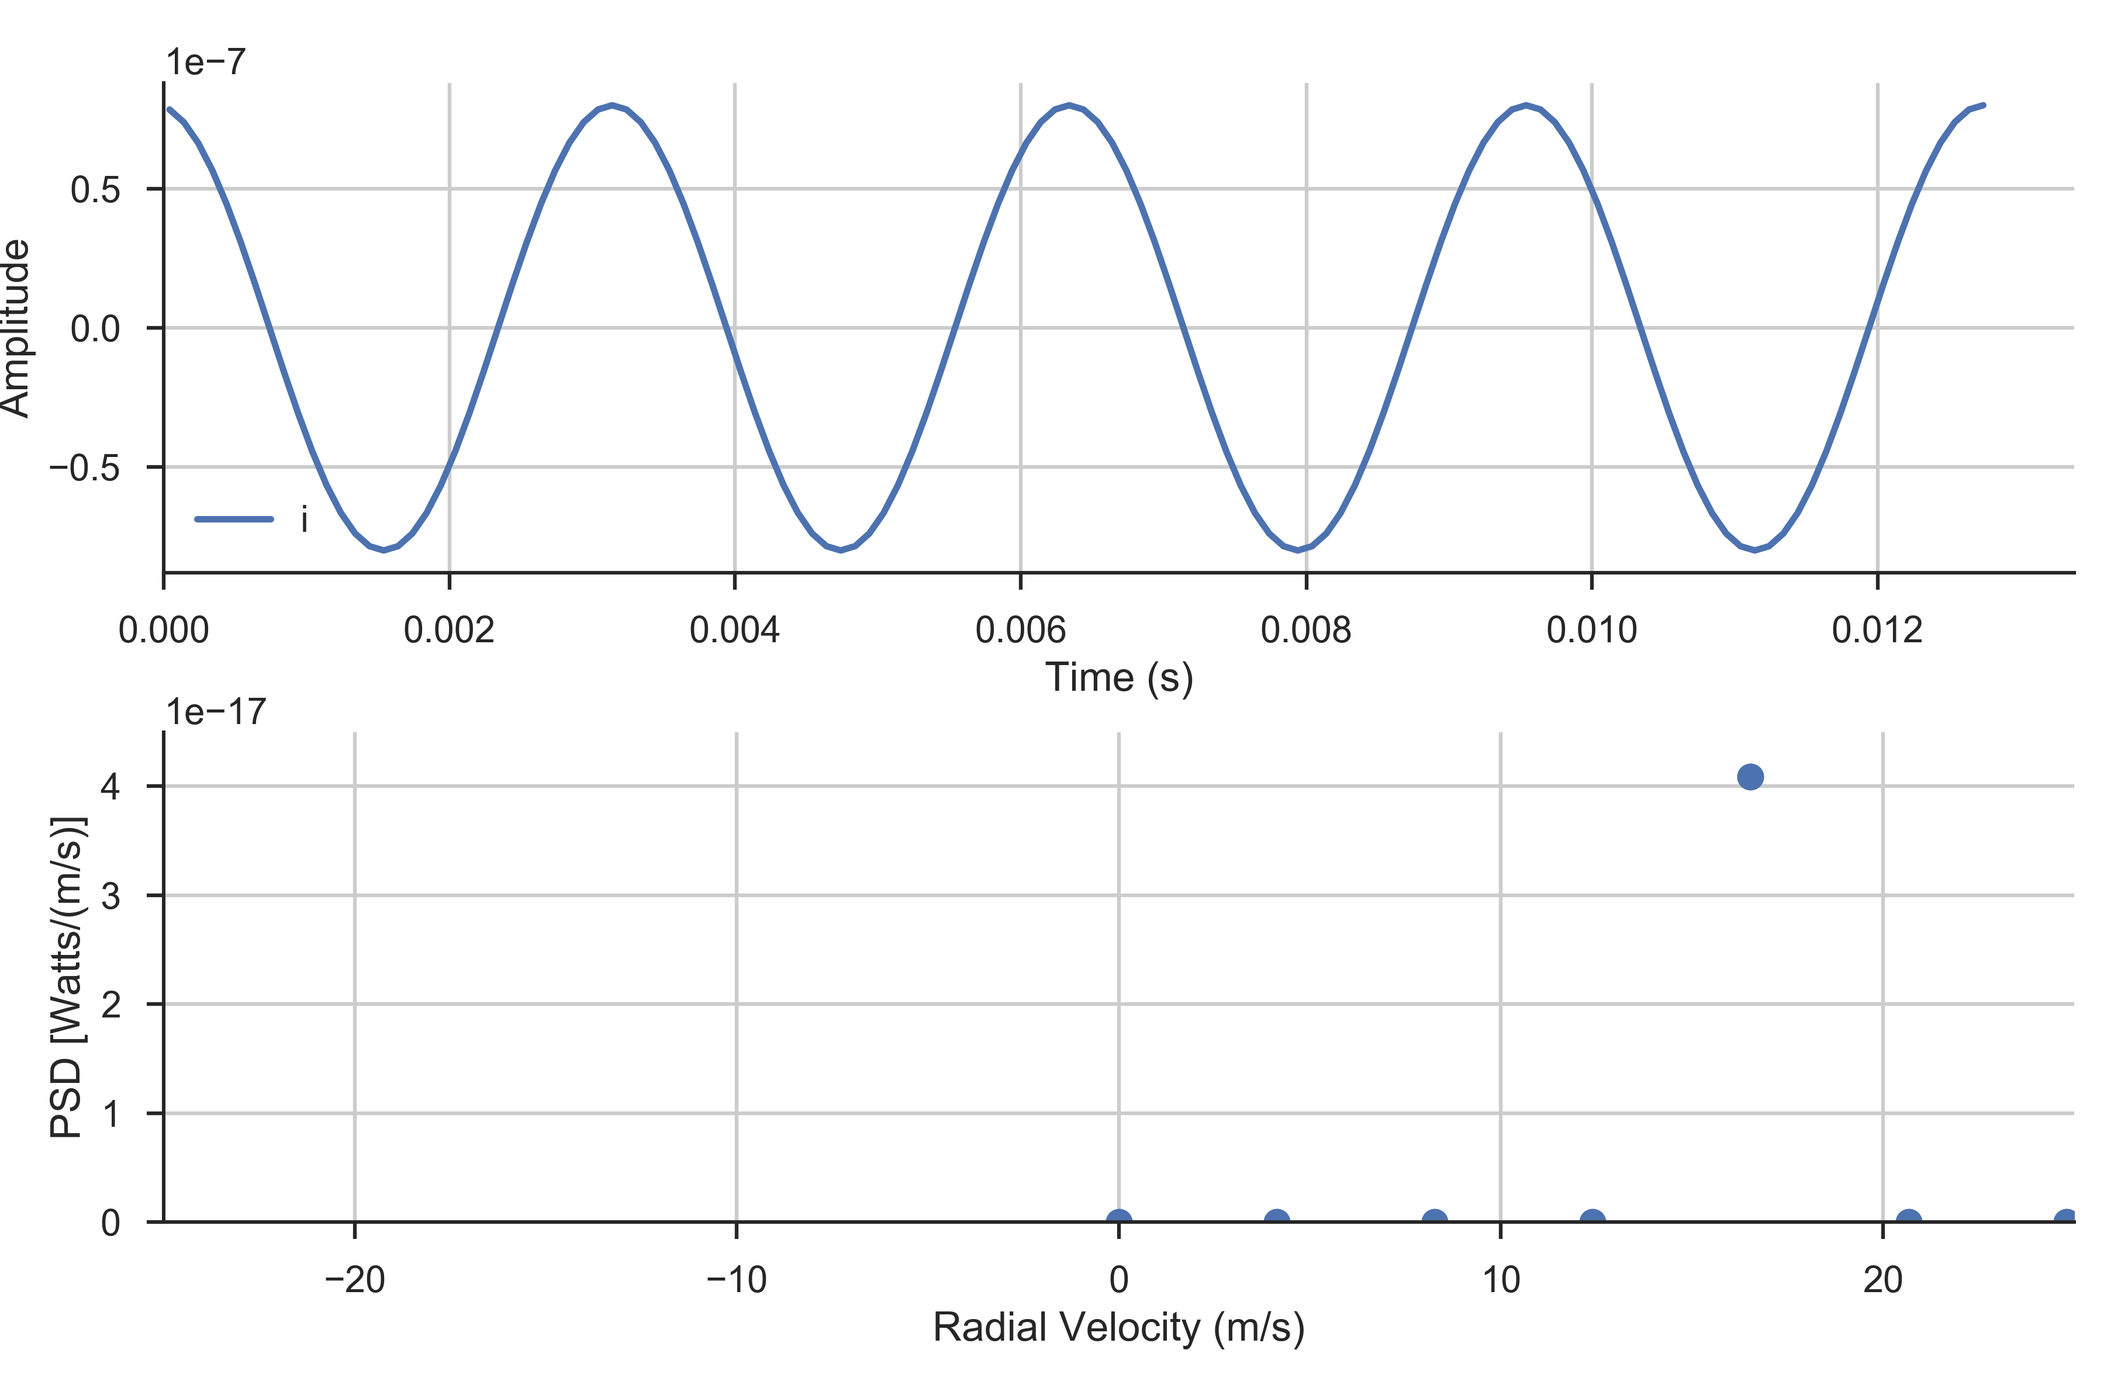
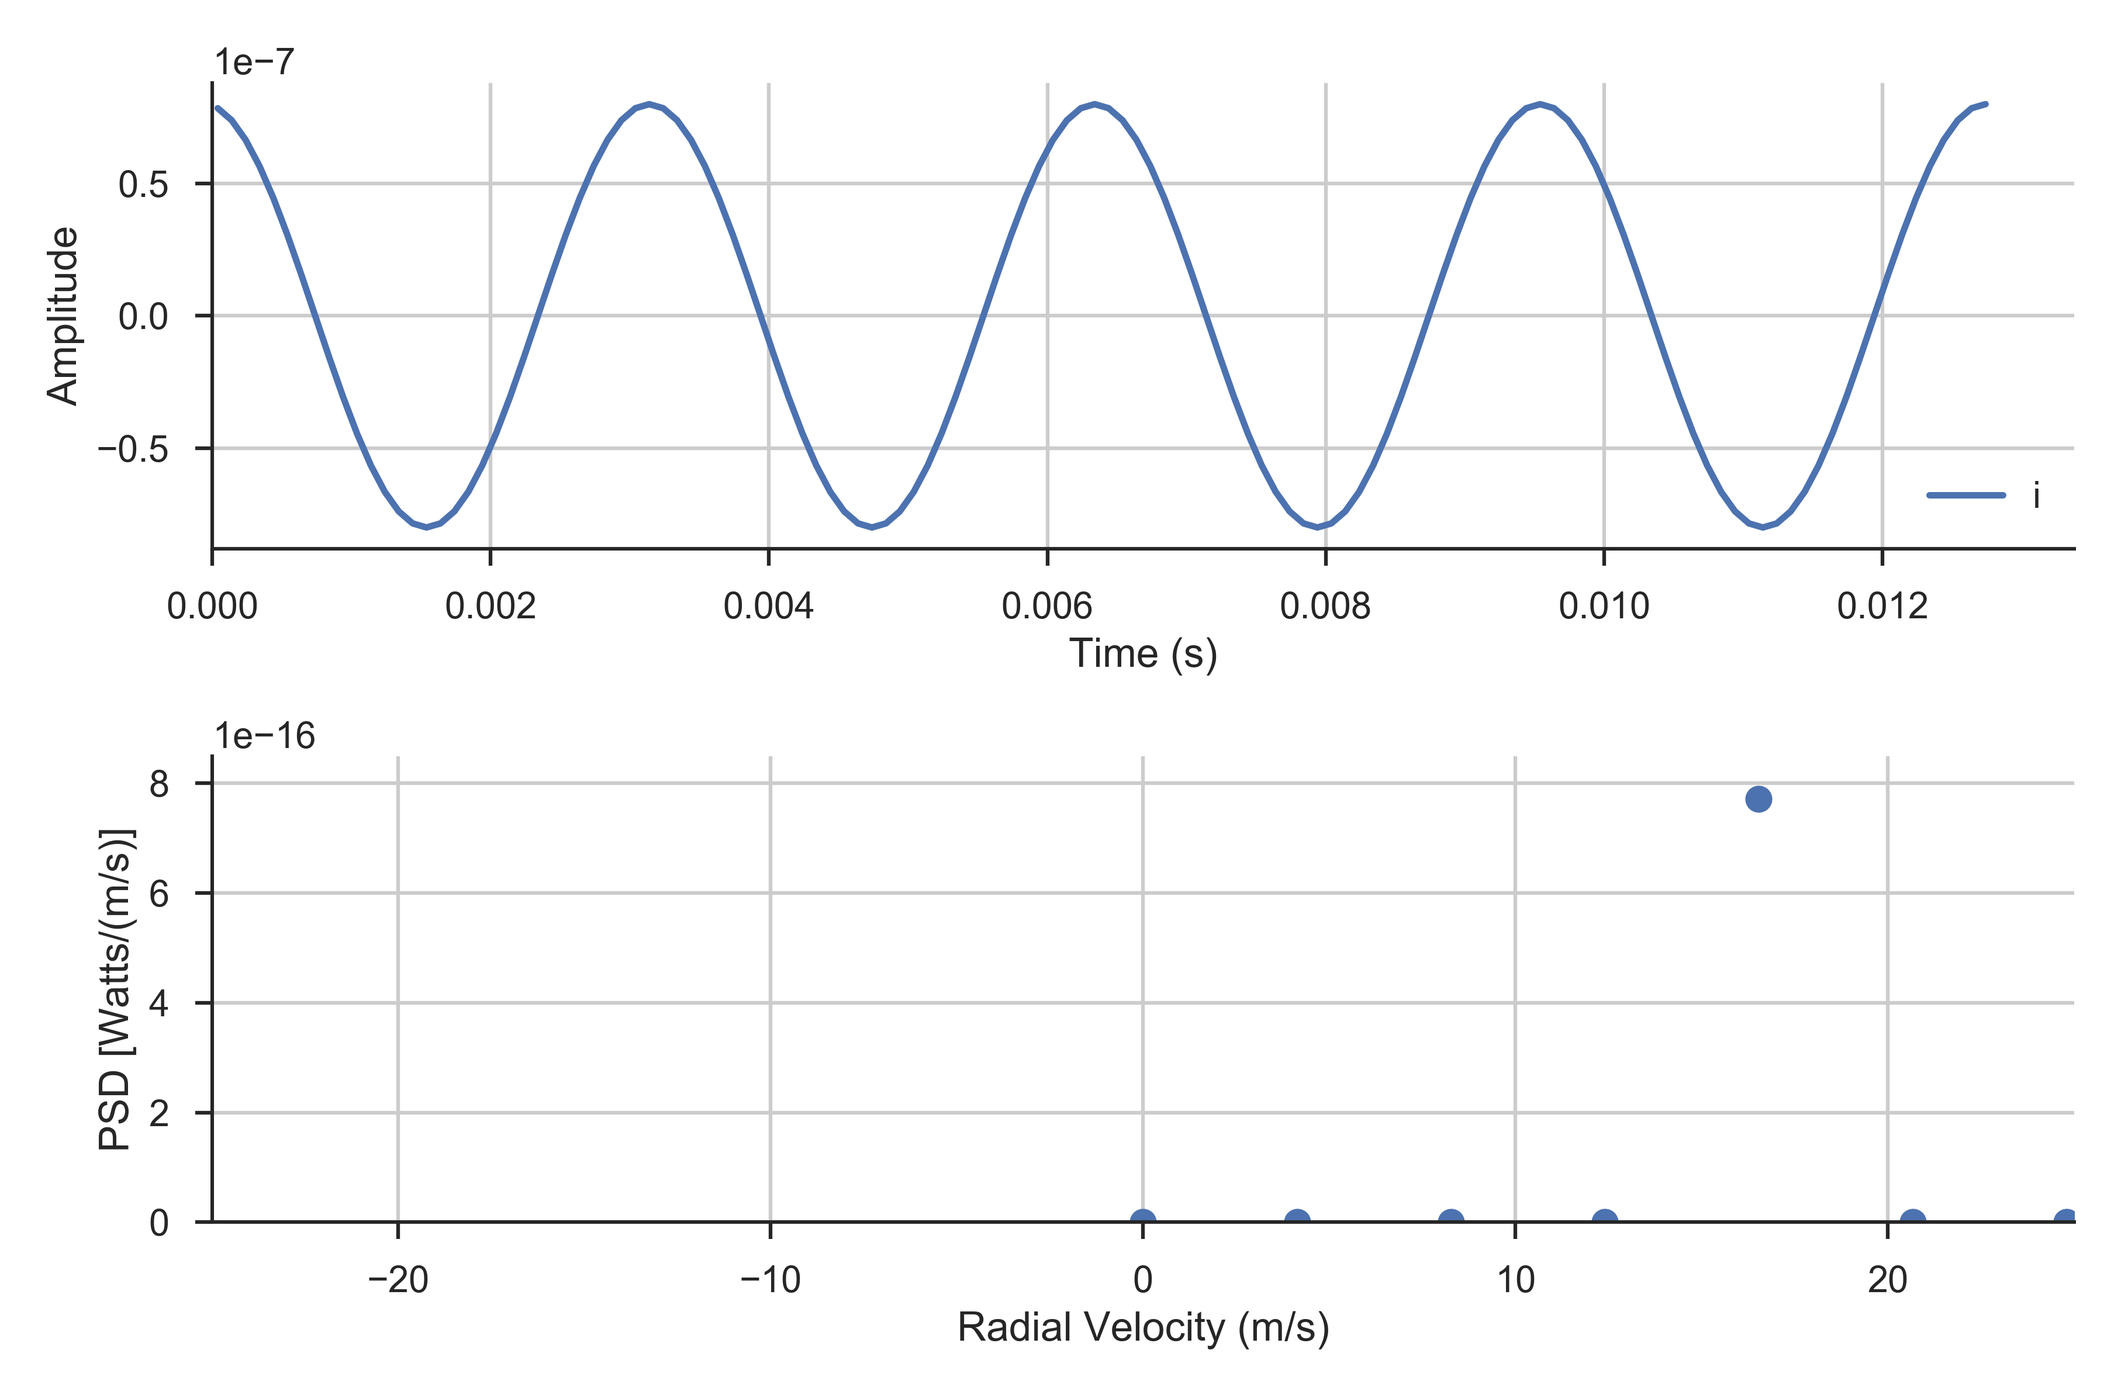
Update sim

diff --git a/main.py b/main.py
@@ -51,37 +51,43 @@ def runSimulation(numIntegrate, attackAngle, noiseOn):
         integrateTimeArr = np.zeros((numIntegrate))
         while cohereTrack < numIntegrate:
             # Update Target position, return time, and return power
-            targetLocation = calculateValues.findPosition(targetLocation, attackAngle).v
+            targetLocation = calculateValues.findPosition(targetLocation, 
+                                                          attackAngle).v
             returnTime = calculateValues.expectedTime(targetLocation).v
             returnPower = calculateValues.findPower(targetLocation).v
             targetRange = np.linalg.norm(targetLocation)
-            
+            print(returnPower)
             if noiseOn == True:
-                returnPower += chiNoise(1, 2e-14, 4)
-    
+                returnPower = chiNoise(1, returnPower, 4)
             # Store transmit, arrival times, and power
             transmitArr[i] = time
             arrivalTimeArr[i] = returnTime
             targetRangeArr[i] = targetRange
             returnPowerArr[i] = linear2db(returnPower) + 30  # dBm
-        
+    
+                
             # Store coherent integration information
             iIntegrate[cohereTrack] = np.sqrt(returnPower) * np.cos(
-                                        - 2 * targetRange * (radarVals.wavenumber().v))
+                                        - 2 * targetRange * (
+                                                radarVals.wavenumber().v))
             qIntegrate[cohereTrack] = np.sqrt(returnPower) * np.sin(
-                                        - 2 * targetRange * (radarVals.wavenumber().v))  
+                                         - 2 * targetRange * (
+                                                 radarVals.wavenumber().v))  
             integrateTimeArr[cohereTrack] = time + returnTime
     
             if noiseOn == True:
-                iIntegrate[cohereTrack] += expNoise(1, 2e-14)
-                qIntegrate[cohereTrack] += expNoise(1, 2e-14)
+                iIntegrate[cohereTrack] = iIntegrate[cohereTrack] + \
+                                                expNoise(1, 2e-14)
+                qIntegrate[cohereTrack] = qIntegrate[cohereTrack] + \
+                                                expNoise(1, 2e-14)
     
             # Timing of gates relative to when pulse is sent (length =  #gates + 1)
             gateTimeArray = radarVals.gateTimeIntervalArray().v
     
             # Find gate indx of return pulse,
             gateLocation = (gateTimeArray >= returnTime) * \
-                           (gateTimeArray < returnTime + radarVals.pulseWidth().v)
+                           (gateTimeArray < 
+                            returnTime + radarVals.pulseWidth().v)
             gateIndx = np.where(gateLocation > 0)
     
             # Store return power in appropriate bins
@@ -99,14 +105,15 @@ def runSimulation(numIntegrate, attackAngle, noiseOn):
     
         ptNum += 1
 
-    print("Initial Position %f, %f m" %(targetVals.initPosition().v[0], targetVals.initPosition().v[1] ))
+    print("Initial Position %f, %f m" %(targetVals.initPosition().v[0], 
+                                        targetVals.initPosition().v[1] ))
     print("Final Position %f, %f m" %(targetLocation[0], targetLocation[1] ))
     print("Time on Target: %f s" %time)
 
     return integrateTime, iOut, qOut, returnPowerArr
 
 #### ===== Make Plots for pt3 q2 ===== ####
-
+'''
 # Run question 1 #
 print("Running Question 1")
 helperFunctions.generatePt3q1Figures()
@@ -114,59 +121,34 @@ helperFunctions.generatePt3q1Figures()
 # Run Question 2 #
 print("Running Question 2 approach and recede")
 integrateTime, iOut, qOut, returnPowerArr = runSimulation(1, 270, False)
-helperFunctions.generatePt3q2Figures(integrateTime, iOut, qOut, returnPowerArr, 'approach')
+helperFunctions.generatePt3q2Figures(integrateTime, iOut, qOut, 
+                                         returnPowerArr, 'approach')
 integrateTime, iOut, qOut, returnPowerArr = runSimulation(1, 90, False)
-helperFunctions.generatePt3q2Figures(integrateTime, iOut, qOut, returnPowerArr, 'recede')
+helperFunctions.generatePt3q2Figures(integrateTime, iOut, qOut, 
+                                     returnPowerArr, 'recede')
 
 # Run Question 3 #
 print("# ==== Running Question 3 approach and recede ==== #")
 integrateTime, iOut, qOut, returnPowerArr = runSimulation(1, 270, False)
-helperFunctions.generatePt3q3Figures(integrateTime, iOut, qOut, 1/radarVals.tIpp().v, radarVals.wavelength().v, [-25, 25], 1,'approach')
+helperFunctions.generatePt3q3Figures(integrateTime, 
+                                     iOut, qOut, 1/radarVals.tIpp().v, 
+                                     radarVals.wavelength().v, [-25, 25],
+                                     1,'approach')
 integrateTime, iOut, qOut, returnPowerArr = runSimulation(1, 90, False)
-helperFunctions.generatePt3q3Figures(integrateTime, iOut, qOut, 1/radarVals.tIpp().v, radarVals.wavelength().v, [-25,25], 1, 'recede')
-integrateTime, iOut, qOut, returnPowerArr = runSimulation(5, 270, False)
-helperFunctions.generatePt3q3Figures(integrateTime, iOut, qOut, 1/radarVals.tIpp().v, radarVals.wavelength().v, [-25, 25], 5, 'recede_ncoh5')
+helperFunctions.generatePt3q3Figures(integrateTime,
+                                     iOut, qOut, 1/radarVals.tIpp().v, 
+                                     radarVals.wavelength().v, [-25,25],
+                                     1, 'recede')
+integrateTime, iOut, qOut, returnPowerArr = runSimulation(5, 90, False)
+helperFunctions.generatePt3q3Figures(integrateTime, 
+                                     iOut, qOut, 1/radarVals.tIpp().v,
+                                     radarVals.wavelength().v, [-25, 25], 5, 
+                                     'recede_ncoh5')
 
+'''
 # Run Question 4 #
 print("# ==== Running Question 4 approach and recede ==== #")
 integrateTime, iOut, qOut, returnPowerArr = runSimulation(1, 90, True)
-
-helperFunctions.generatePt3q4Figures(integrateTime, iOut, qOut, 1/radarVals.tIpp().v, radarVals.wavelength().v, 'recede')
-
-'''
-#### ===== Print final values after simulation ===== ####
-helperFunctions.printFinalValues(transmitArr[-1],
-                                 db2linear(returnPowerArr[-1] - 30),
-                                 arrivalTimeArr[-1], targetRangeArr[-1])
-
-#### ===== Generate final figures ===== ####
-helperFunctions.generateFigures(transmitArr, arrivalTimeArr,
-                                returnPowerArr, sampleArr, snrArr)
-
-#### =====  Calculate radial velocity and plot ===== ####
-
-targRangeFromSNR = np.zeros((transLength))
-
-for i in range(0, transLength):
-    index = np.argmax(snrArr[:,i])
-    targRangeFromSNR[i] = radarVals.gateTimeIntervalArray().v[index] * 3e8/2
-
-timeArr = np.arange(0,  simulationAttributes.runtime + 2*radarVals.tIpp().v,
-                    radarVals.tIpp().v)
-windowSize = 20000
-timeDiff = timeArr[windowSize] - timeArr[0]
-timeDiff2 = timeArr[10] - timeArr[0]
-
-drdtArr = np.zeros((transLength))
-drdtTrue = np.zeros((transLength))
-
-for i in range(10, transLength):
-    drdtTrue[i] = (targetRangeArr[i] - targetRangeArr[i-10]) / timeDiff2
-
-for i in range(windowSize, transLength):
-    drdtArr[i] = (targRangeFromSNR[i] - targRangeFromSNR[i-windowSize]) / \
-           timeDiff
-
-#### ==== Plot radial velocity ===== ####
-helperFunctions.radialVelocityPlot(timeArr, drdtArr, drdtTrue)
-'''
+helperFunctions.generatePt3q4Figures(integrateTime,
+                                     iOut, qOut, 1/radarVals.tIpp().v, 
+                                     radarVals.wavelength().v, 'recede_100less')

diff --git a/helperFunctions.py b/helperFunctions.py
@@ -10,7 +10,8 @@ import matplotlib.pyplot as plt
 import seaborn as sns
 import numpy  as np
 from scipy import signal
-from modelAttributes import radarVals, linear2db, finalValues, expNoise, chiNoise
+from modelAttributes import radarVals, linear2db, finalValues, expNoise,
+                            chiNoise
 
 
 # Print  out initial attributes
@@ -152,7 +153,13 @@ def generatePt3q2Figures(arrivalTimeArr, iOut, qOut, powerMeas, saveInfo):
     sns.set_context('talk')
     sns.set_style('ticks')
     ax = plt.subplot(111)
-    plt.plot(iOut[0:20], qOut[0:20])
+    plt.plot(iOut[0:25], qOut[0:25])
+    plt.scatter(iOut[0], qOut[0], c='g')
+    plt.text(iOut[0], qOut[0], 'Start')
+    
+    plt.scatter(iOut[24], qOut[24], c='r')
+    plt.text(iOut[24], qOut[24], 'End')
+
     plt.xlabel('I')
     plt.ylabel('Q')
     plt.grid()
@@ -164,7 +171,7 @@ def generatePt3q2Figures(arrivalTimeArr, iOut, qOut, powerMeas, saveInfo):
     ax.get_yaxis().get_major_formatter().set_useOffset(False)
     ax.get_xaxis().get_major_formatter().set_useOffset(False)
     ax.set_aspect('equal', 'datalim')
-    plt.title('Phasor diagram (bursts 1-20)')
+    plt.title('Phasor diagram (bursts 1-25)')
     plt.savefig('./Figures/hw3q2_fig2_%s.png'%saveInfo, dpi=350)
     plt.close()
     
@@ -189,25 +196,81 @@ def generatePt3q2Figures(arrivalTimeArr, iOut, qOut, powerMeas, saveInfo):
     plt.savefig('./Figures/hw3q2_fig3_%s.png'%saveInfo, dpi=350)
     plt.close()
 
-def makePeriodogram(saveName, velocity, Pxx_den, transmitArr, iOut, qOut, xlims, plotQ):
+def makePeriodogram(saveName, velocity, Pxx_den, transmitArr, iOut, 
+                    qOut, xlims, plotQ, twinx):
+    Pxx_den = (2/radarVals.wavelength().v) * Pxx_den
+
+    # Generate figure
+    sns.set_context('talk')
+    sns.set_style('ticks')
+    plt.figure()
+    ax = plt.subplot(212)
+    plt.scatter(velocity, Pxx_den)
+    plt.grid()
+    ax.spines['top'].set_color('none')
+    ax.xaxis.set_ticks_position('bottom')
+    ax.spines['right'].set_color('none')
+    ax.yaxis.set_ticks_position('left')
+    plt.xlim(xlims[0], xlims[1])
+    print(np.max(Pxx_den))
+    plt.ylim(np.min(Pxx_den), 1.1 * np.max(Pxx_den))
+    plt.xlabel('Radial Velocity (m/s)')
+    plt.ylabel('PSD [Watts/(m/s)]')
+    ax = plt.subplot(211)
+    plt.plot(transmitArr, iOut, label='i')
+    if plotQ == True:
+        plt.plot(transmitArr, qOut, label='q')
+    plt.legend()
+    plt.grid()
+    ax.spines['top'].set_color('none')
+    ax.xaxis.set_ticks_position('bottom')
+    ax.spines['right'].set_color('none')
+    ax.yaxis.set_ticks_position('left')
+    plt.xlabel('Time (s)')
+    plt.ylabel('Amplitude')
+    plt.xlim(0,)
+    plt.tight_layout()
+    plt.savefig('./Figures/%s' % saveName, dpi=350)
+    plt.close()
+        
+def makePeriodogramQ4(saveName, velocity, Pxx_den, transmitArr, iOut, 
+                      qOut, xlims, plotQ, twinx):
+        # TODO: Check this    
+        Pxx_den = (2/radarVals.wavelength().v) * Pxx_den
+    
         # Generate figure
         sns.set_context('talk')
         sns.set_style('ticks')
-        plt.figure()
-        ax = plt.subplot(212)
-        plt.scatter(velocity, Pxx_den)
+        plt.figure(figsize=(8,14))
+        ax = plt.subplot(413)
+        Pxx_den_db = np.zeros((len(Pxx_den)))
+        for i in range(0,len(Pxx_den)):
+            Pxx_den_db[i] = linear2db(Pxx_den[i])
+        plt.scatter(velocity, Pxx_den_db, s=20)
         plt.grid()
         ax.spines['top'].set_color('none')
         ax.xaxis.set_ticks_position('bottom')
         ax.spines['right'].set_color('none')
         ax.yaxis.set_ticks_position('left')
         plt.xlim(xlims[0], xlims[1])
-        print(np.max(Pxx_den))
+        plt.ylim(-210, 20 + np.max(Pxx_den_db))
+        plt.xlabel('Radial Velocity (m/s)')
+        plt.ylabel('PSD [db Watts/(m/s)]')
+    
+
+        ax = plt.subplot(412)
+        plt.scatter(velocity, Pxx_den, s=20)
+        plt.grid()
+        ax.spines['top'].set_color('none')
+        ax.xaxis.set_ticks_position('bottom')
+        ax.spines['right'].set_color('none')
+        ax.yaxis.set_ticks_position('left')
+        plt.xlim(xlims[0], xlims[1])
         plt.ylim(np.min(Pxx_den), 1.1 * np.max(Pxx_den))
         plt.xlabel('Radial Velocity (m/s)')
         plt.ylabel('PSD [Watts/(m/s)]')
-        
-        ax = plt.subplot(211)
+
+        ax = plt.subplot(411)
         plt.plot(transmitArr, iOut, label='i')
         if plotQ == True:
             plt.plot(transmitArr, qOut, label='q')
@@ -217,12 +280,25 @@ def makePeriodogram(saveName, velocity, Pxx_den, transmitArr, iOut, qOut, xlims,
         ax.xaxis.set_ticks_position('bottom')
         ax.spines['right'].set_color('none')
         ax.yaxis.set_ticks_position('left')
-        plt.tight_layout()
         plt.xlabel('Time (s)')
         plt.ylabel('Amplitude')
         plt.xlim(0,)
+        plt.tight_layout()
+        
+        ax = plt.subplot(412)
+        # Calculate SNR
+        maxSignal = np.max(Pxx_den)
+        meanSignal = np.mean((Pxx_den[(Pxx_den < maxSignal) * (Pxx_den > 0)]))
+        snr = linear2db(maxSignal/meanSignal)
+        
+        # Calculate target velocity
+        velocityTarg = velocity[np.argmax(Pxx_den)]
+        plt.figtext(0.2, 0.11, 'Velocity Estimate = %.2f m/s'%velocityTarg)
+        plt.figtext(0.2, 0.08, 'Noise Power = %.2f dB'%linear2db(meanSignal))
+        plt.figtext(0.2, 0.05, 'SNR = %.2f dB'%snr)
         plt.savefig('./Figures/%s' % saveName, dpi=350)
         plt.close()
+        
 
 
 def generatePt3q3Figures(transmitArr, iOut, qOut, samplingFreq, 
@@ -230,14 +306,17 @@ def generatePt3q3Figures(transmitArr, iOut, qOut, samplingFreq,
 
     # Calculate periodogram
     realPlusI = iOut[:] + 1j * qOut[:]
-    f1, Pxx_realPlusI = signal.periodogram(realPlusI, samplingFreq / numIntegrate)
+    f1, Pxx_realPlusI = signal.periodogram(realPlusI,
+                                           samplingFreq / numIntegrate)
     f2, Pxx_I = signal.periodogram(iOut, samplingFreq / numIntegrate )
     velocity1 = (f1 * wavelength) / 2  # radial velocity
     velocity2 = (f2 * wavelength) / 2  # radial velocity    
     makePeriodogram('hw3q3_fig1_%s'%saveInfo, velocity1,
-                    Pxx_realPlusI, transmitArr, iOut, qOut, xlims, plotQ= True)
+                    Pxx_realPlusI, transmitArr, iOut, qOut, xlims,
+                    plotQ= True, twinx = False)
     makePeriodogram('hw3q3_fig2_%s'%saveInfo, velocity2,
-                    Pxx_I, transmitArr, iOut, qOut, xlims, plotQ = False)
+                    Pxx_I, transmitArr, iOut, qOut,
+                    xlims, plotQ = False, twinx = False)
 
 
 def generatePt3q4Figures(transmitArr, iOut, qOut, samplingFreq, 
@@ -248,10 +327,12 @@ def generatePt3q4Figures(transmitArr, iOut, qOut, samplingFreq,
     f2, Pxx_I = signal.periodogram(iOut, samplingFreq)
     velocity1 = (f1 * wavelength) / 2  # radial velocity
     velocity2 = (f2 * wavelength) / 2  # radial velocity    
-    makePeriodogram('hw3q4_fig1_%s'%saveInfo, velocity1,
-                    Pxx_realPlusI, transmitArr, iOut, qOut, [-20, 20], plotQ= True)
-    makePeriodogram('hw3q4_fig2_%s'%saveInfo, velocity2,
-                    Pxx_I, transmitArr, iOut, qOut, [-20, 20], plotQ = False)
+    makePeriodogramQ4('hw3q4_fig1_%s'%saveInfo, velocity1,
+                    Pxx_realPlusI, transmitArr, iOut, qOut,
+                    [-50, 50], plotQ= True, twinx = True)
+    makePeriodogramQ4('hw3q4_fig2_%s'%saveInfo, velocity2,
+                    Pxx_I, transmitArr, iOut, qOut, [-50, 50],
+                    plotQ = False, twinx = True)
 
     
     

diff --git a/modelAttributes.py b/modelAttributes.py
@@ -31,7 +31,8 @@ def expNoise(samples, meanValue):
 
 def chiNoise(samples, meanValue, freedomDegrees):
     xx = np.linspace(0, 4 * meanValue, 1000)
-    pdf = ((freedomDegrees * xx) / (meanValue**2)) * np.exp((-2 * xx) / meanValue)
+    pdf = ((freedomDegrees * xx) / (meanValue**2)) * \
+            np.exp((-2 * xx) / meanValue)
     pdf = pdf / np.sum(pdf)
     cumVals = np.cumsum(pdf)
     invCdf = interpolate.interp1d(cumVals, xx)
@@ -58,7 +59,7 @@ class radarVals:
  
     class transPower:
         def __init__(self):
-            self.v = 10e3
+            self.v = 1
             self.nameString = "Transmitted Power"
             self.units = "W"
 
@@ -207,7 +208,7 @@ class targetVals:
 
     class targetSpeed:
         def __init__(self):
-            self.v =  (freq2lambda(radarVals.frequency().v) / radarVals.tIpp().v ) \
+            self.v = (freq2lambda(radarVals.frequency().v) / radarVals.tIpp().v ) \
                         * (2/radarVals.fftPts().v)
             self.nameString = "Target speed"
             self.units = "m/s"
